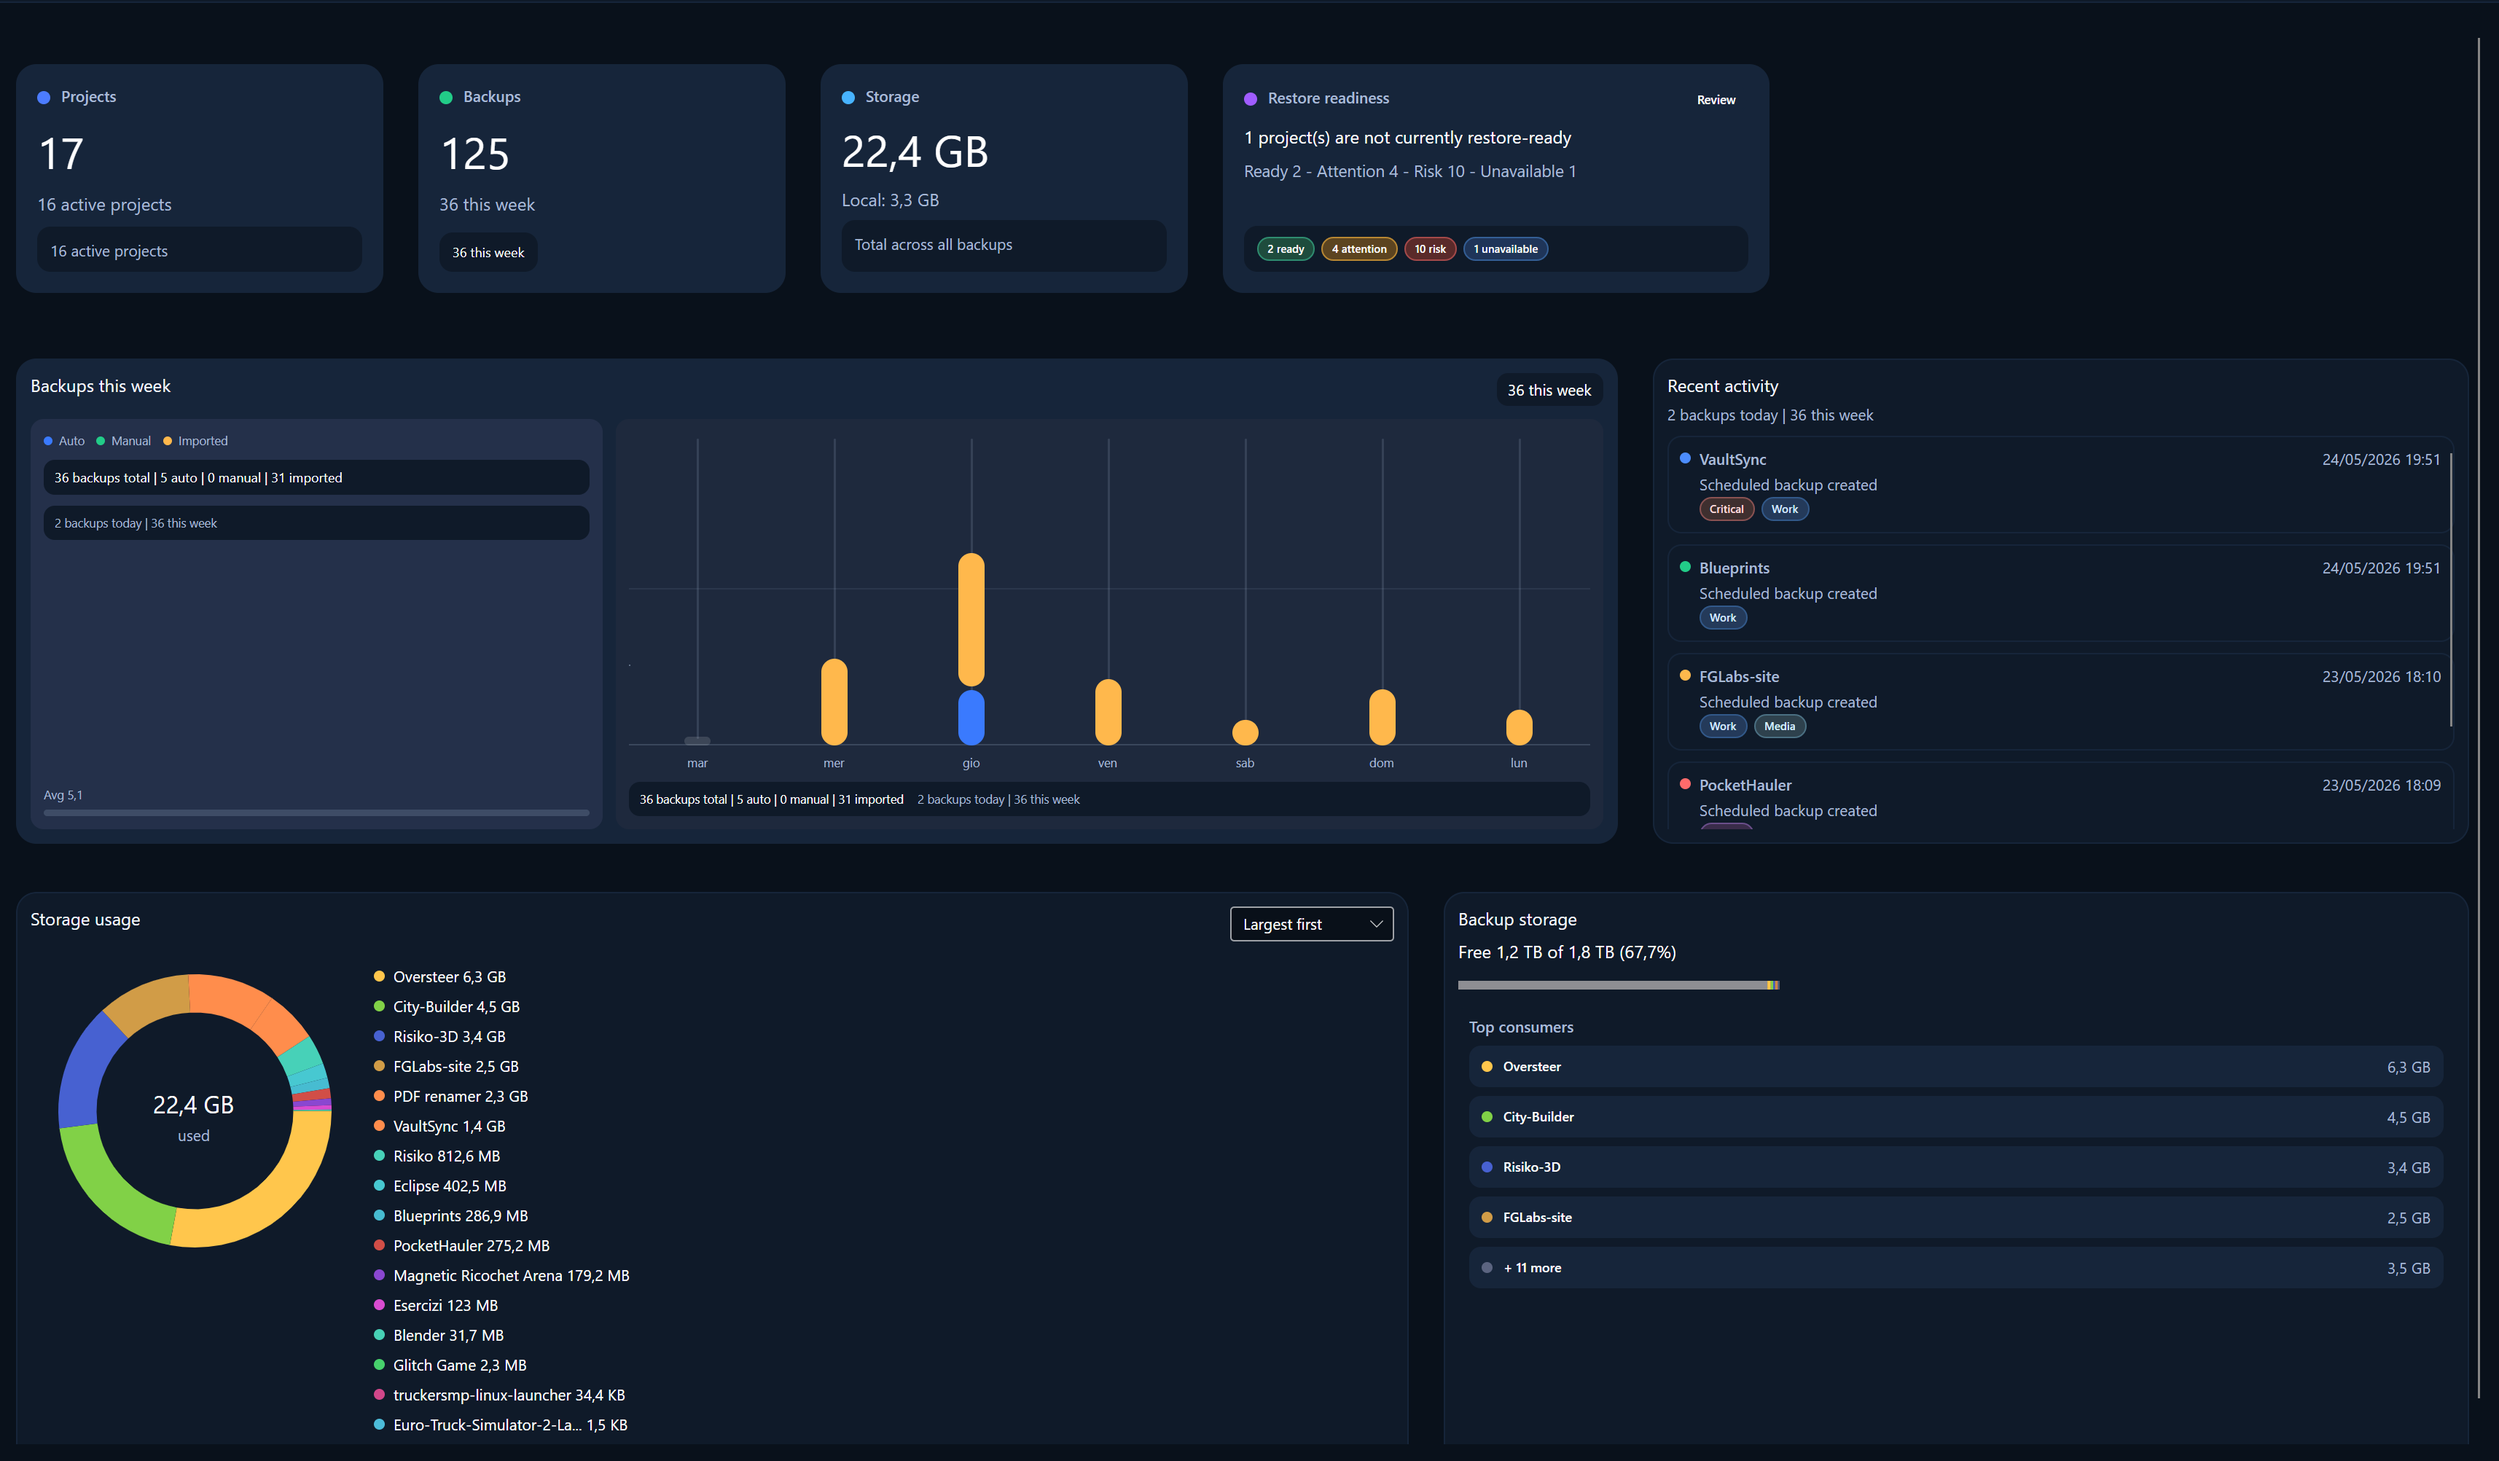
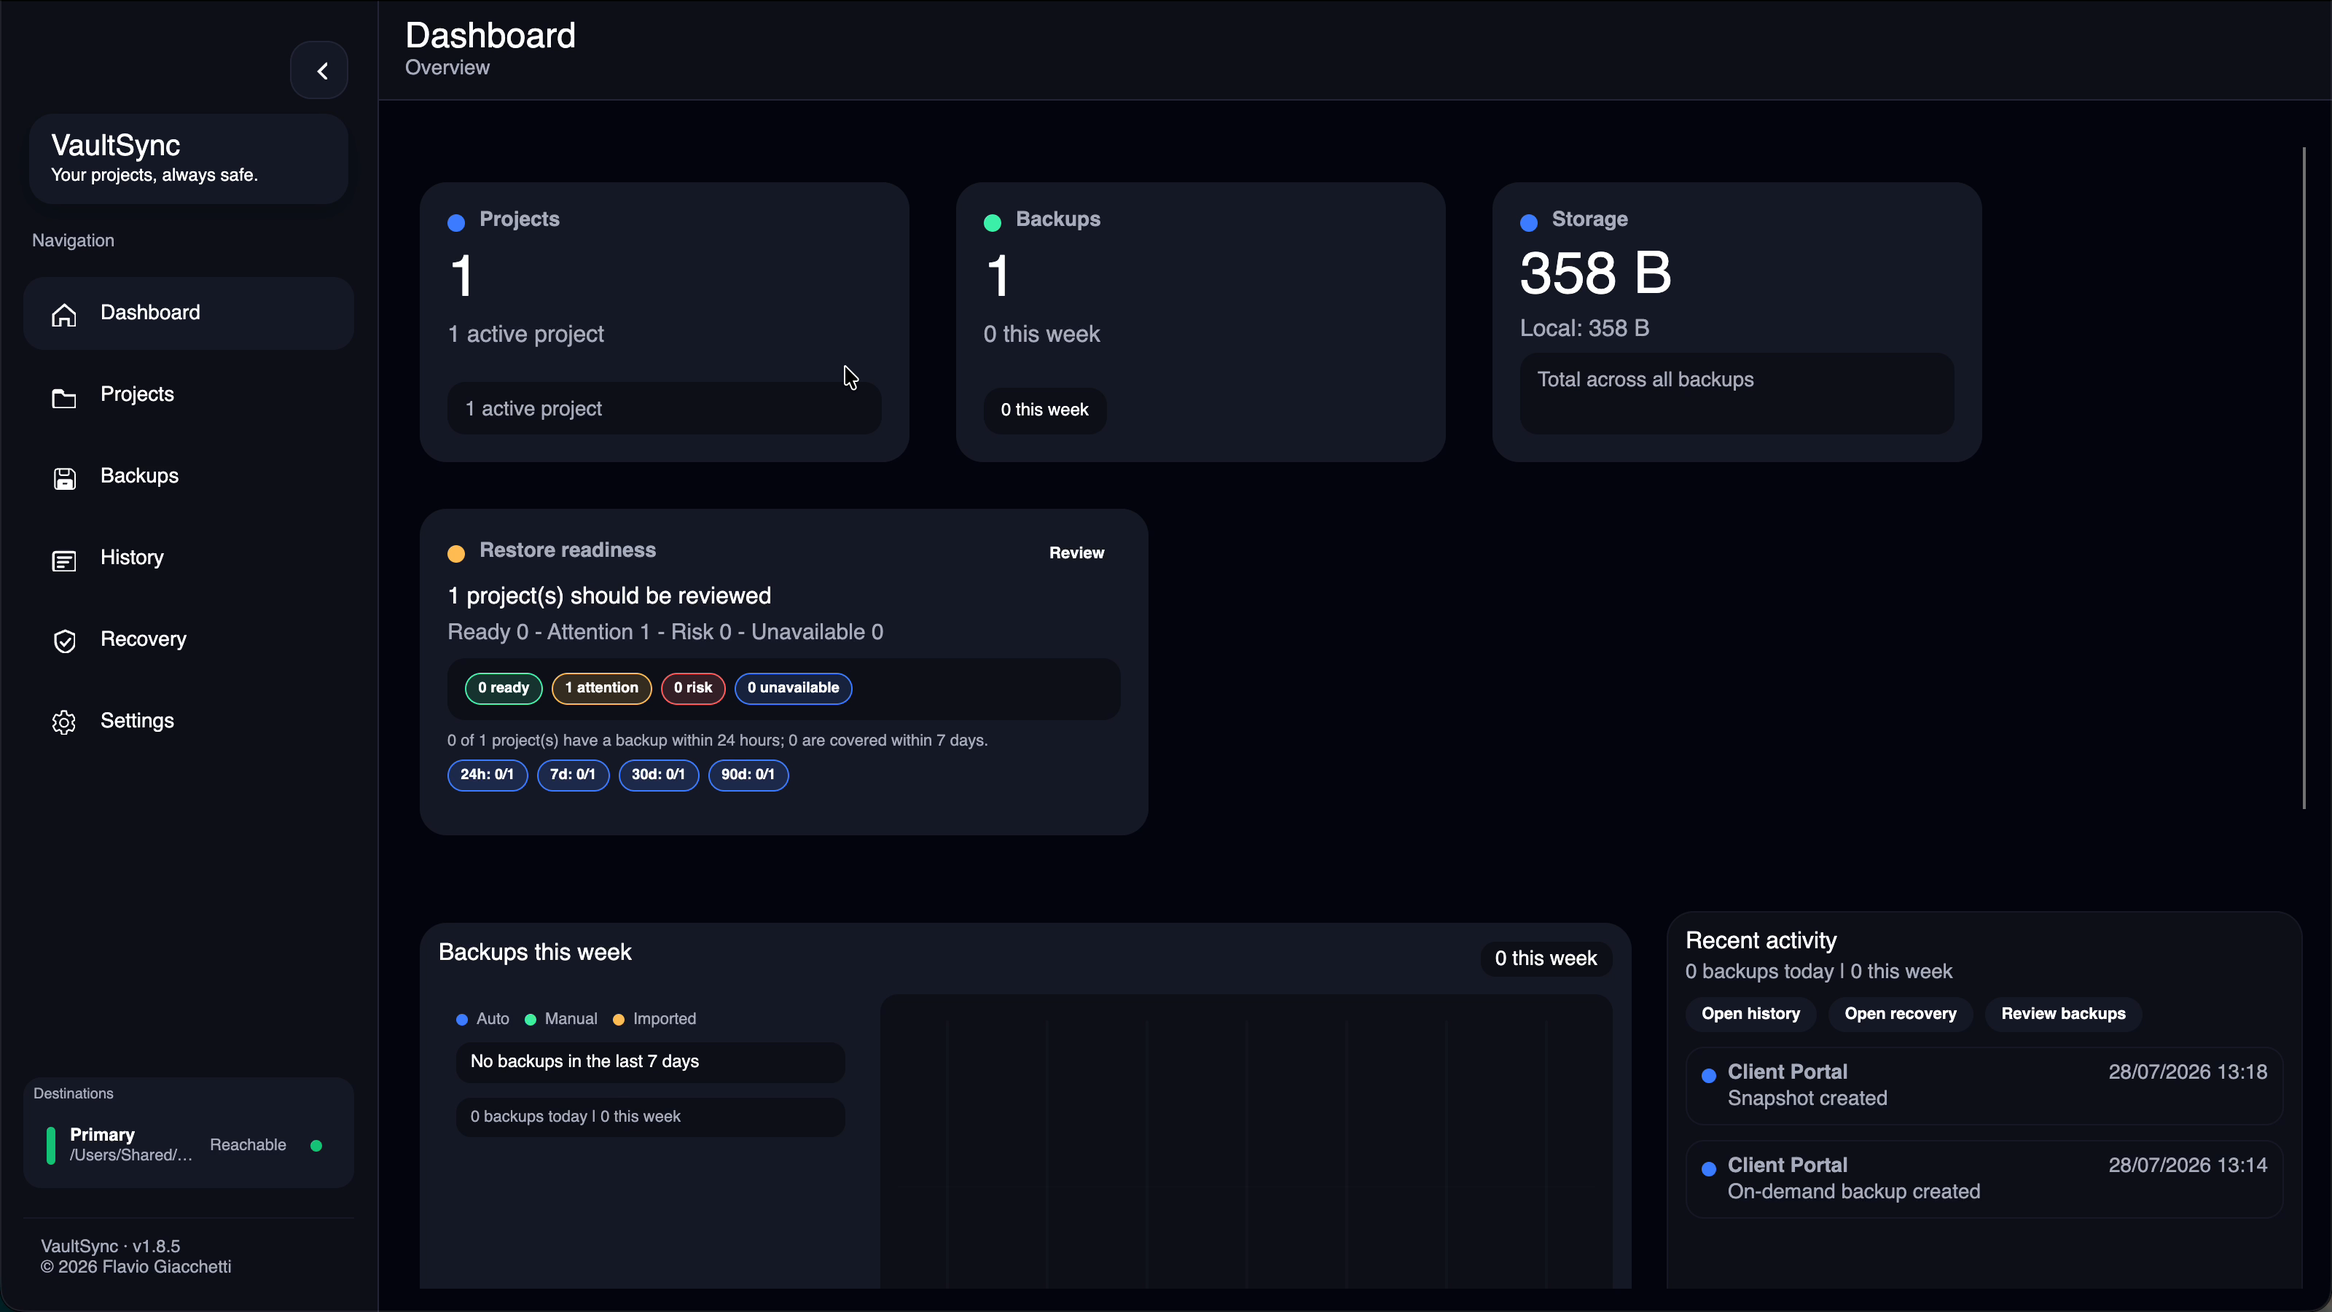
Docs refresh complete product screenshot library

diff --git a/docs/images/README.md b/docs/images/README.md
@@ -1,0 +1,26 @@
+# Screenshot library
+
+These are the canonical product screenshots used by the repository README,
+website, wiki, release material, and promotional pages.
+
+| File | Primary use |
+| --- | --- |
+| `Dashboard.png` | README hero, website hero, daily overview |
+| `Projects_Page.png` | Project discovery, registration, presets, and tags |
+| `Backup_Page.png` | Backup health, storage, and restore points |
+| `Compare_View.png` | Snapshot comparison and text diff |
+| `History_Timeline.png` | Searchable history and restore-point details |
+| `Recovery_Readiness.png` | Recovery score, coverage, and 3-2-1 guidance |
+| `Recovery_Drill.png` | Successful read-only recovery-drill evidence |
+| `Settings_General.png` | General, scheduling, retention, and transfer |
+| `Settings_Destinations.png` | Advanced destinations, retry, resume, and quota |
+| `Settings_Encryption_Performance.png` | Encryption, format, and performance |
+| `Settings_Maintenance.png` | Maintenance, repair planning, conflicts, and updates |
+| `Theme_Gallery_Dark.png` | Dark-theme promotional gallery |
+| `Theme_Gallery_Light.png` | Light-theme promotional gallery |
+| `tour/` | Stable wiki-specific aliases and onboarding coverage |
+
+The feature screenshots use the isolated `Client Portal` demonstration profile.
+Paths are synthetic, credentials are absent, and only the VaultSync content
+area is captured. Theme-gallery screenshots use a separate empty profile so
+appearance changes cannot affect the prepared feature data.
